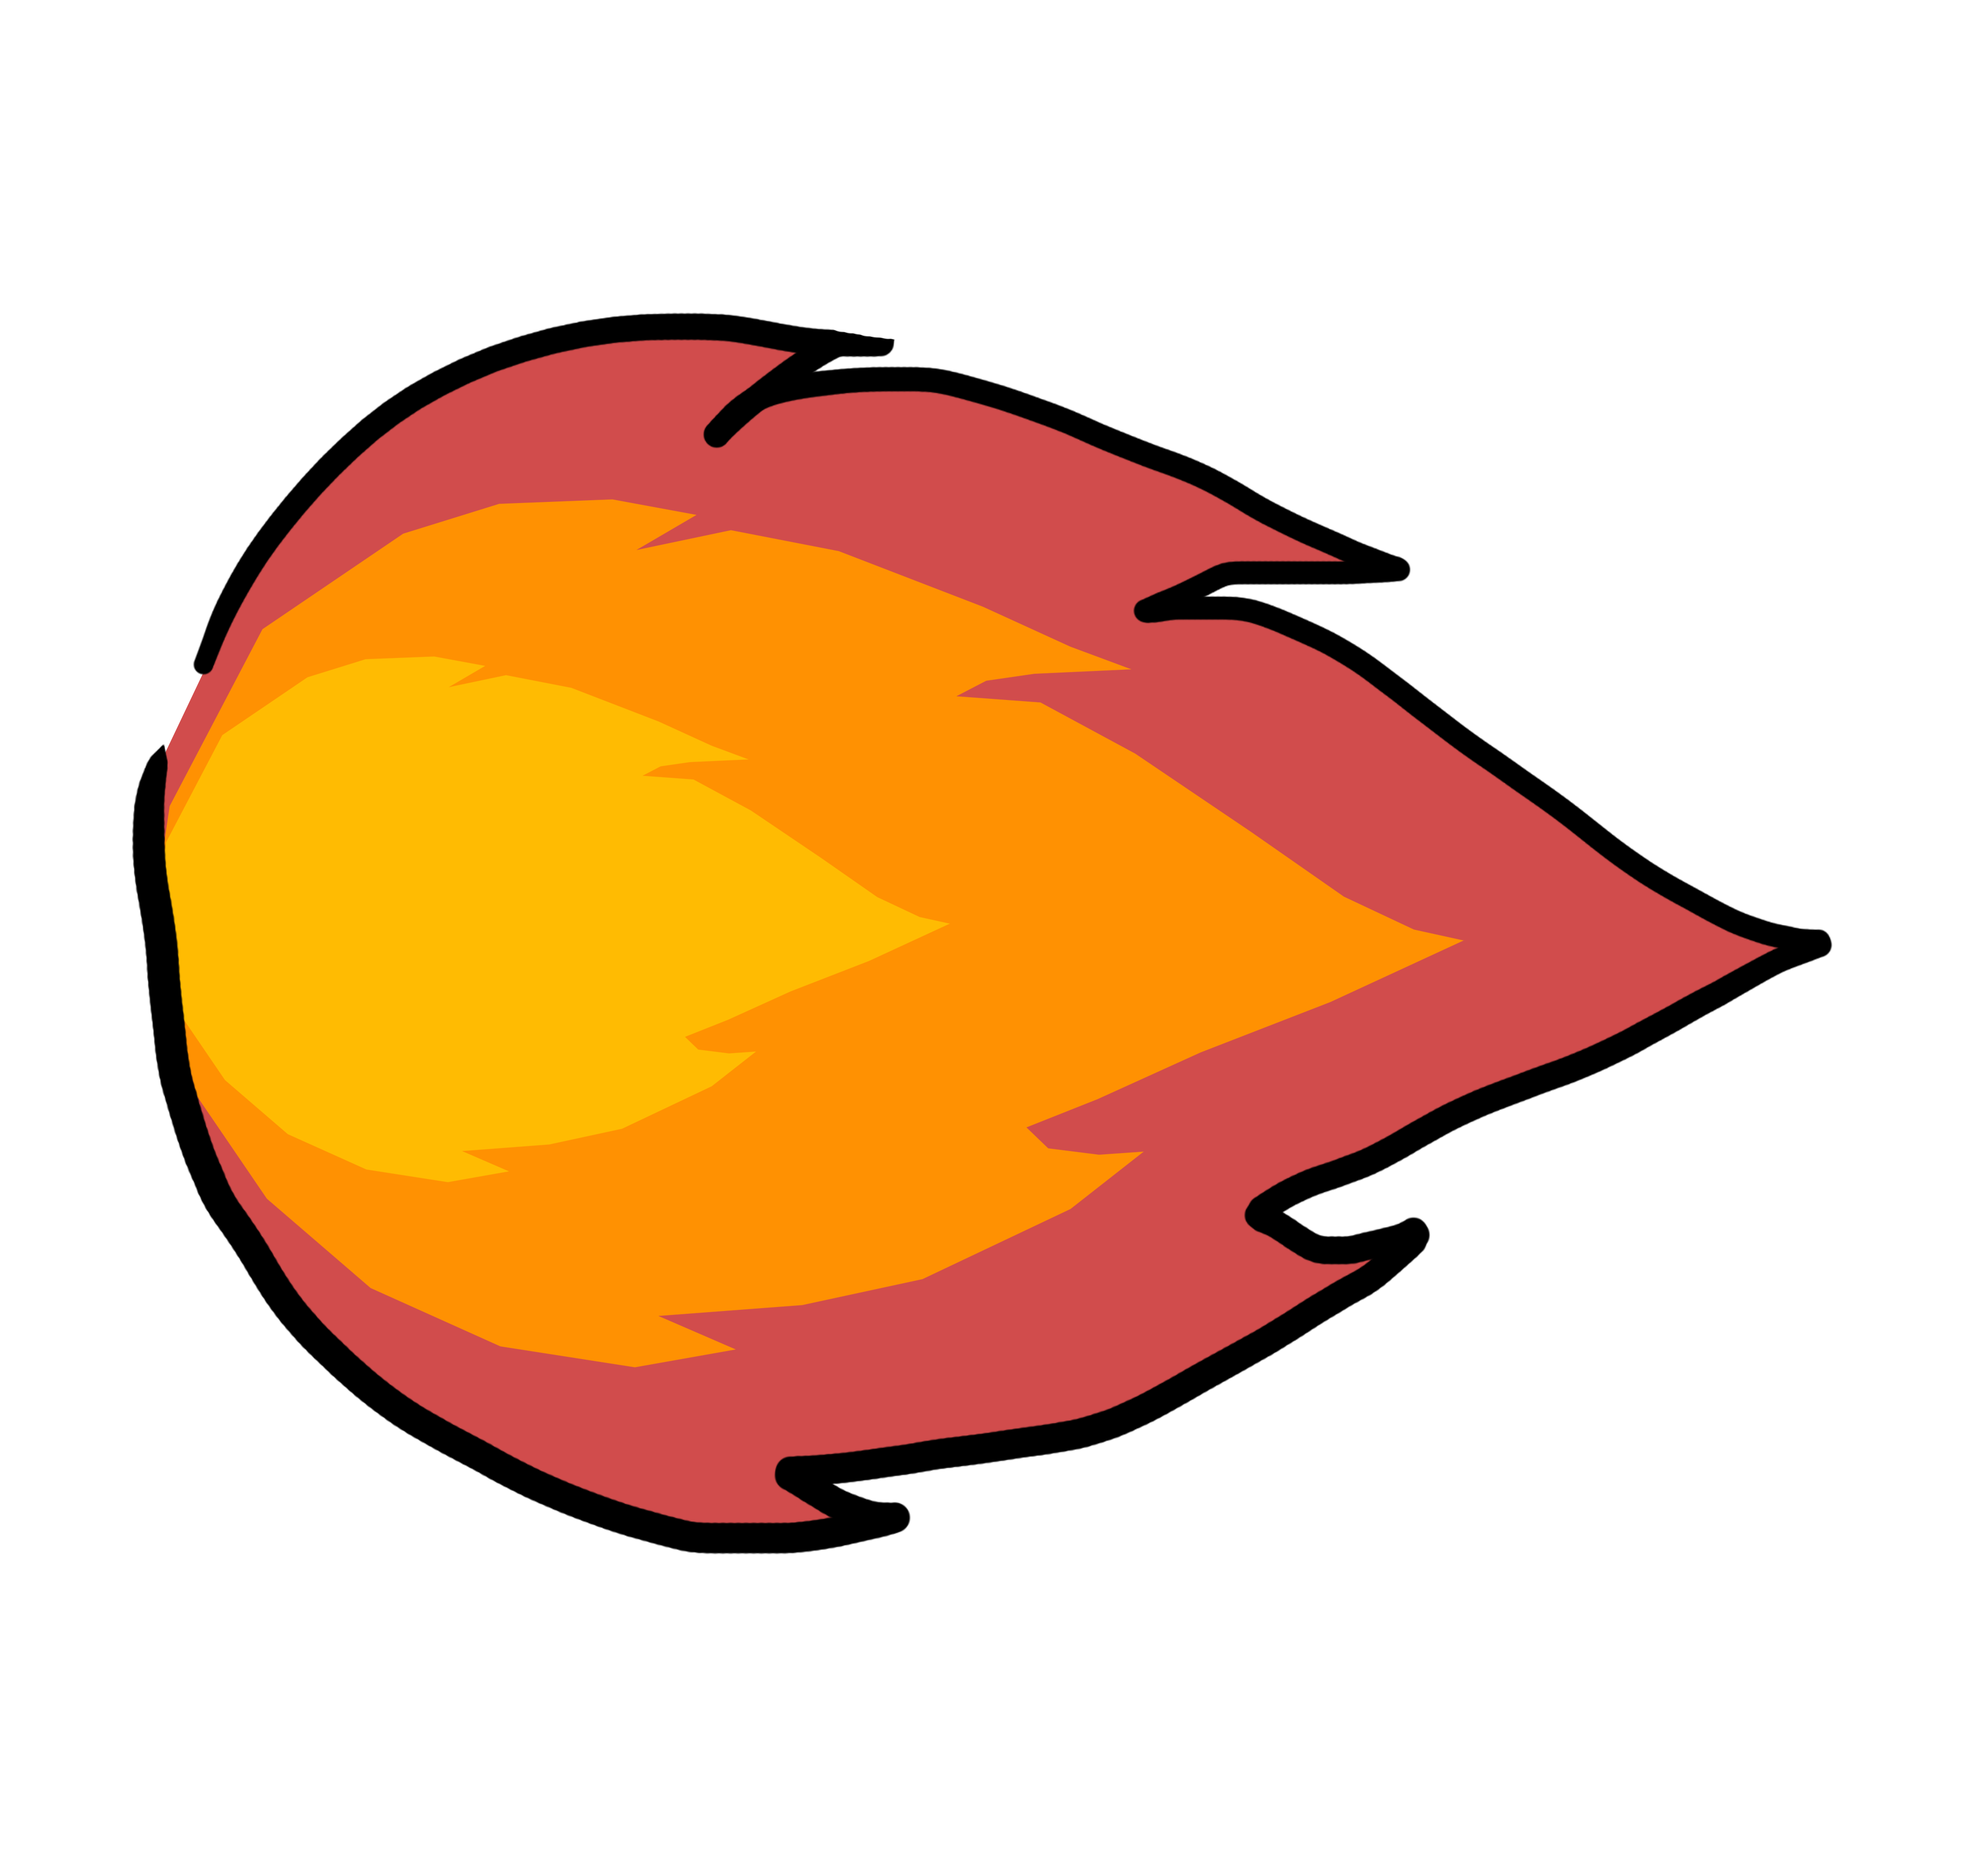
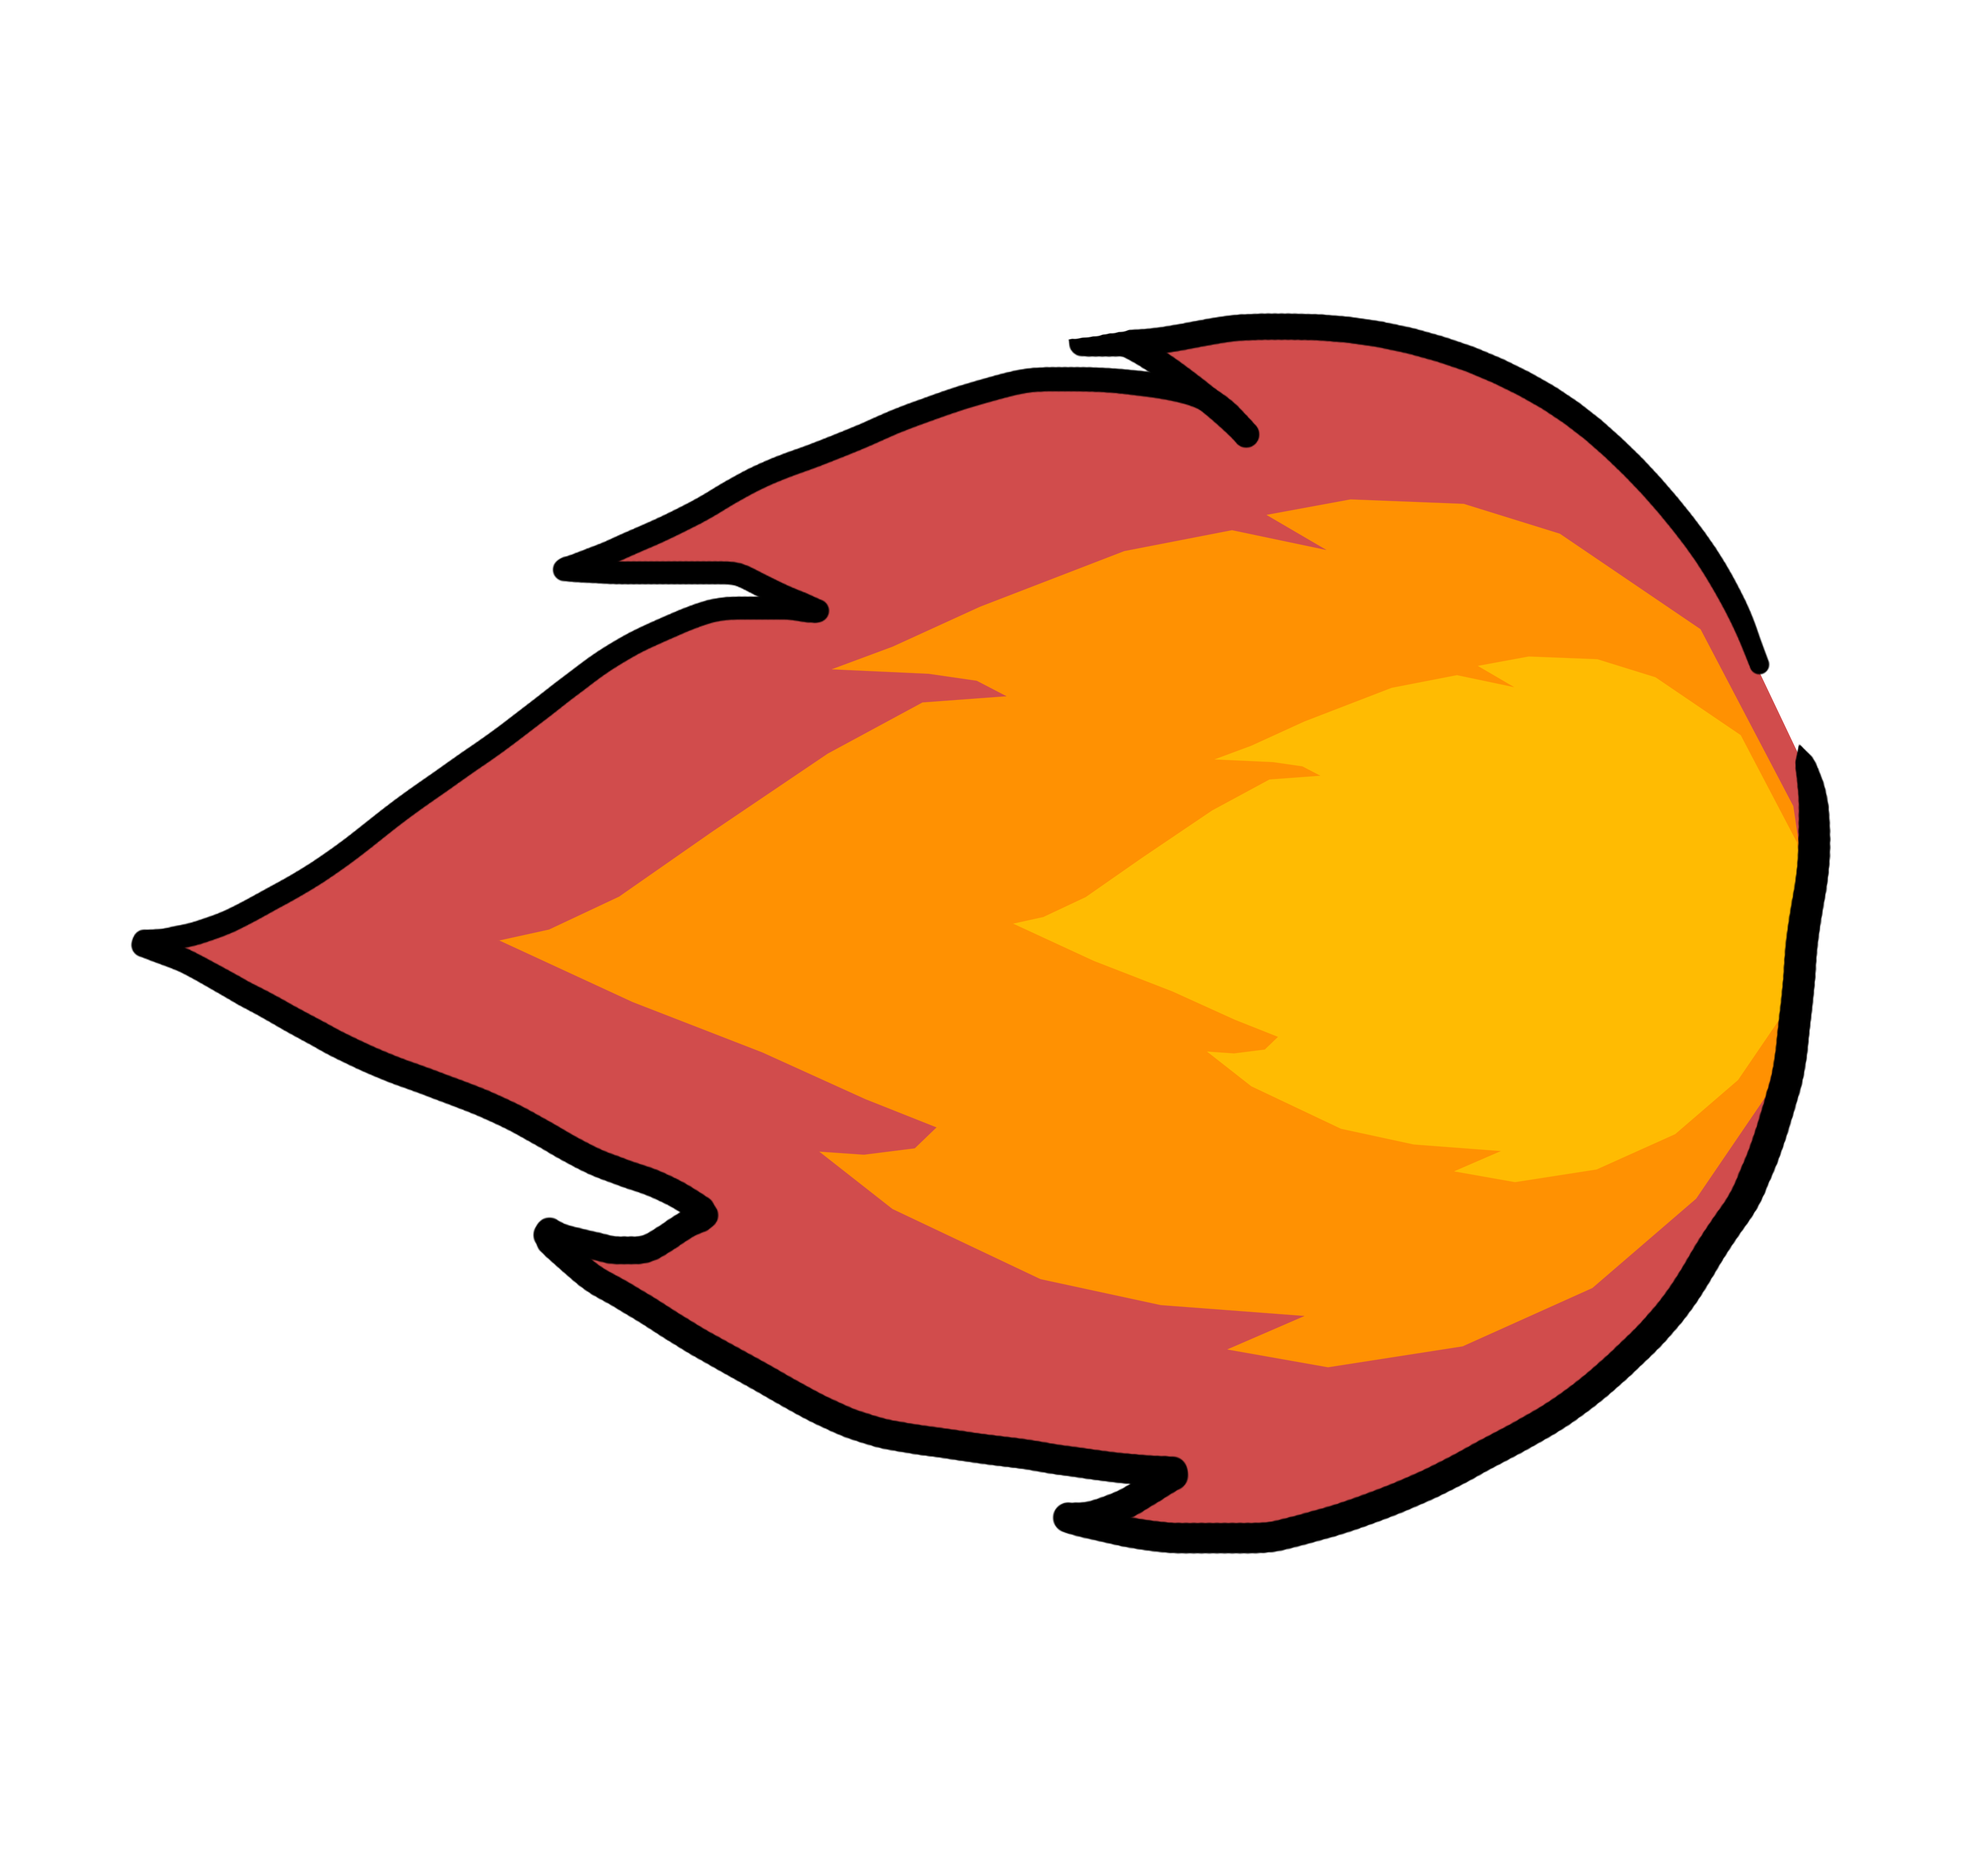
UI
Created Health UI
Changed sprite for fire and scripts for it

diff --git a/Boss Rush/Assets/Scripts/PlayerControls.cs b/Boss Rush/Assets/Scripts/PlayerControls.cs
@@ -4,7 +4,6 @@ using UnityEngine;
 
 public class PlayerControls : MonoBehaviour {
     public float health;
-	private Transform player;
 	private Rigidbody2D rb2d;
 	public float moveSpeed = 7;
 	public float jumpStrength = 2;
@@ -17,41 +16,61 @@ public class PlayerControls : MonoBehaviour {
 	private bool facingRight = true;
     private SpriteRenderer sprite;
 
+    private Vector2 min;
+    private Vector2 max;
+    private Vector3 move;
+
 	// Use this for initialization
 	void Start () {
-		player = GetComponent<Transform>();
 		rb2d = GetComponent<Rigidbody2D>();
         sprite = GetComponent<SpriteRenderer>();
-	}
+
+        min = Camera.main.ViewportToWorldPoint(new Vector2(0.04f, 0));
+        max = Camera.main.ViewportToWorldPoint(new Vector2(0.96f, 1));
+    }
 	
 	// Update is called once per frame
 	void Update () 
 	{
-		if (Input.GetKey (KeyCode.D) || Input.GetKey(KeyCode.RightArrow))
-		{
-			player.transform.position += new Vector3 (1, 0, 0) * moveSpeed * Time.deltaTime;
-			ChangeFirePos(1);
+		if (Input.GetKey(KeyCode.D) || Input.GetKey(KeyCode.RightArrow))
+        {
             sprite.flipX = false;
-			facingRight = true;
+            ChangeFirePos(1);
+            facingRight = true;
+
+            move = new Vector3(1, 0, 0) * moveSpeed * Time.deltaTime;
+
+            print(transform.position.x + move.x <= max.x && transform.position.x + move.x >= min.x);
+
+            if (transform.position.x + move.x <= max.x && transform.position.x + move.x >= min.x)
+            {
+                transform.position += move;
+            }
 		}
 
-		if (Input.GetKey (KeyCode.A) || Input.GetKey(KeyCode.LeftArrow))
+		if (Input.GetKey(KeyCode.A) || Input.GetKey(KeyCode.LeftArrow))
 		{
-			player.transform.position += new Vector3 (-1, 0, 0) * moveSpeed * Time.deltaTime;
-			ChangeFirePos(-1);
+            ChangeFirePos(-1);
             sprite.flipX = true;
-			facingRight = false;
-		}
+            facingRight = false;
 
-		if (Input.GetKeyDown (KeyCode.Space))
+            move = new Vector3(-1, 0, 0) * moveSpeed * Time.deltaTime;
+
+            if (transform.position.x + move.x <= max.x && transform.position.x + move.x >= min.x)
+            {
+                transform.position += move;
+            }
+        }
+
+		if (Input.GetKeyDown(KeyCode.Space))
 		{
 			//player.transform.position += transform.up * jumpStrength * Time.deltaTime;
 			rb2d.AddForce(new Vector2(0, 1) * jumpStrength * 100);
 		}
 
-		if (Input.GetKeyDown (KeyCode.Z)) 
+		if (Input.GetKeyDown(KeyCode.Z)) 
 		{
-			Fire ();
+			Fire();
 		}
 	}
 
@@ -62,20 +81,26 @@ public class PlayerControls : MonoBehaviour {
 
         /*
 		if (facingRight) {
-			Instantiate (rightBullet, firePos.position, firePos.rotation);
+			Instantiate(rightBullet, firePos.position, firePos.rotation);
 		} else {
-			Instantiate (leftBullet, firePos.position, firePos.rotation);
+			Instantiate(leftBullet, firePos.position, firePos.rotation);
 		}*/
     }
 
     void ChangeFirePos(int orientation)
 	{
-		firePos.position = new Vector2 (player.position.x + orientation, firePos.position.y);
+		firePos.position = new Vector2(transform.position.x + orientation, firePos.position.y);
 	}
 
     public void doDamage(float dmg)
     {
         health -= dmg;
+
+        if (health <= 0)
+        {
+            sprite.enabled = false;
+            GetComponent<PlayerControls>().enabled = false;
+        }
     }
 
     public bool isPlayerDead()

diff --git a/Boss Rush/Assets/Scripts/UI/HealthUI.cs b/Boss Rush/Assets/Scripts/UI/HealthUI.cs
@@ -1,0 +1,18 @@
+using System.Collections;
+using System.Collections.Generic;
+using UnityEngine;
+using UnityEngine.UI;
+
+public class HealthUI : MonoBehaviour {
+    private PlayerControls player;
+
+	// Use this for initialization
+	void Start () {
+        player = GameObject.Find("Player").GetComponent<PlayerControls>();
+	}
+	
+	// Update is called once per frame
+	void Update () {
+        GetComponent<Text>().text = "HP: " + player.health;
+	}
+}

diff --git a/Boss Rush/Assets/Scripts/RichardBullet.cs b/Boss Rush/Assets/Scripts/RichardBullet.cs
@@ -13,6 +13,8 @@ public class RichardBullet : MonoBehaviour
     // Use this for initialization
     void Start()
     {
+        GetComponent<SpriteRenderer>().flipX = !right;
+
         direction = right ? 1 : -1;
     }
 
